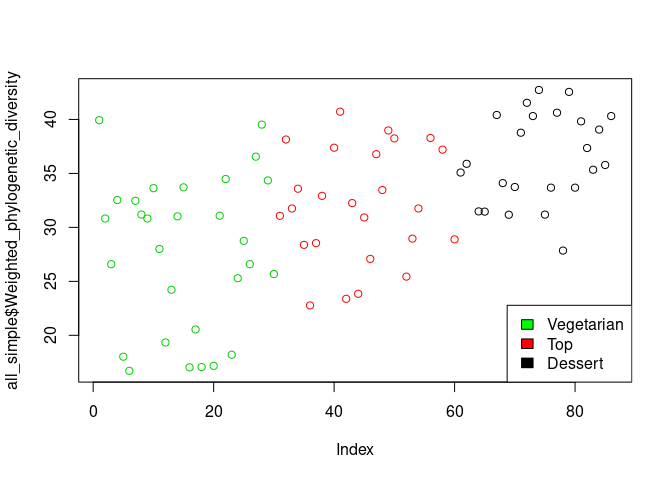
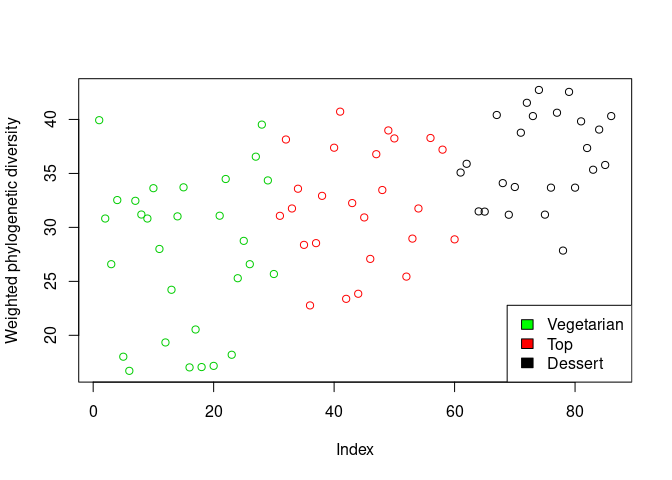
new plot, wpd by all samples

Changed region(s): [[0.0, 0.1562, 0.0312, 0.8125]]

diff --git a/results/README.md b/results/README.md
@@ -612,7 +612,7 @@ Other plots
 All samples
 -----------
 
-    plot(all_simple$Weighted_phylogenetic_diversity, col=factor(all_simple$type))
+    plot(all_simple$Weighted_phylogenetic_diversity, col=factor(all_simple$type), ylab="Weighted phylogenetic diversity")
     legend(x="bottomright", legend=unique(all_simple$type), fill=c("green", "red", "black"))
 
 ![](New_recipes_files/figure-markdown_strict/unnamed-chunk-32-1.png)
